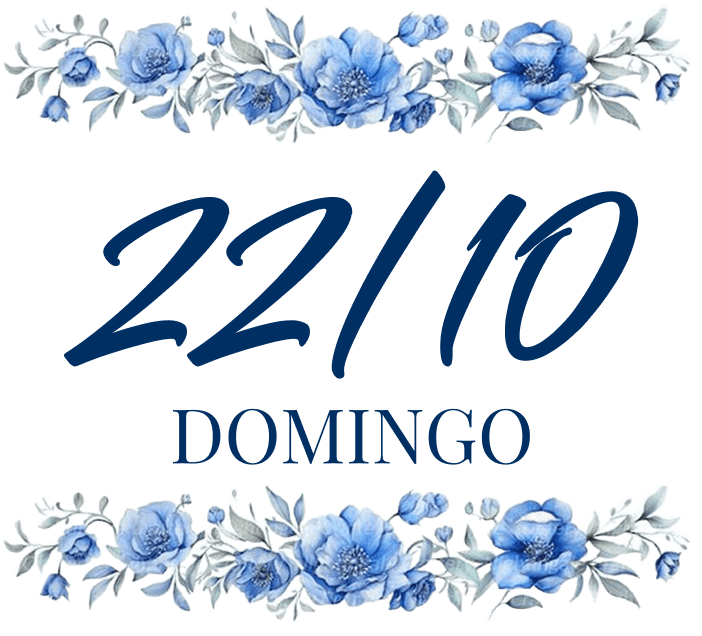
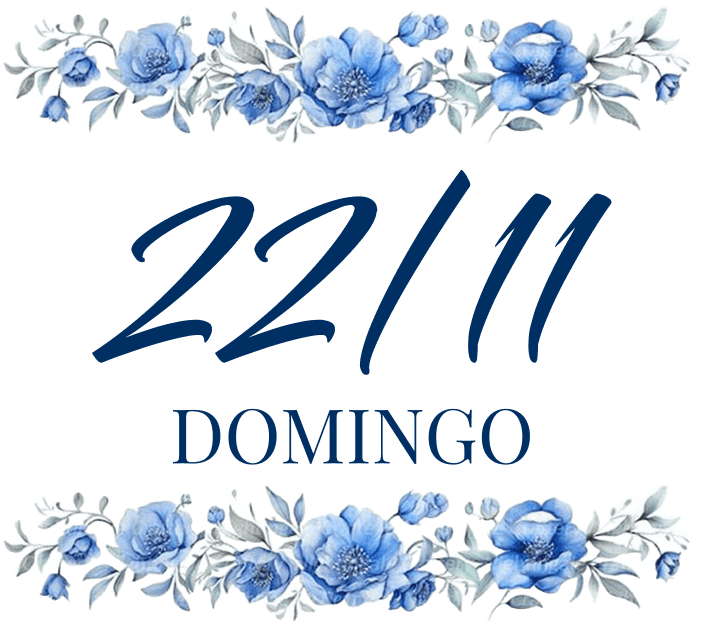
Corrrecciones

Changed region(s): [[0.0897, 0.2689, 0.688, 0.5975], [0.6282, 0.2987, 0.9274, 0.5975]]

diff --git a/misxvjaz/index.html b/misxvjaz/index.html
@@ -46,7 +46,7 @@
       <!-- Fecha -->
       <section id="fecha" class="fecha_num">
         <img src="images/marco_2.png" alt="Domingo veintidós de octubre" />
-        <a href="https://calendar.app.google/2sSjUqbH5Mr27iWFA" class="button"
+        <a href="https://calendar.app.google/3eA3R7AcBAQCumo47" class="button"
           >Agendar la fecha</a
         >
       </section>
